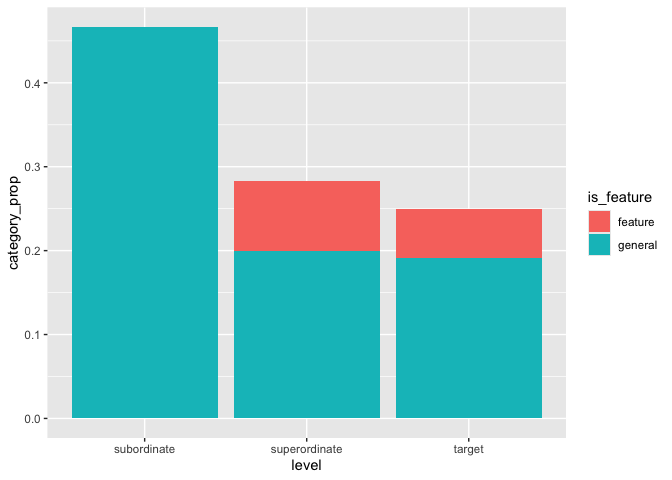
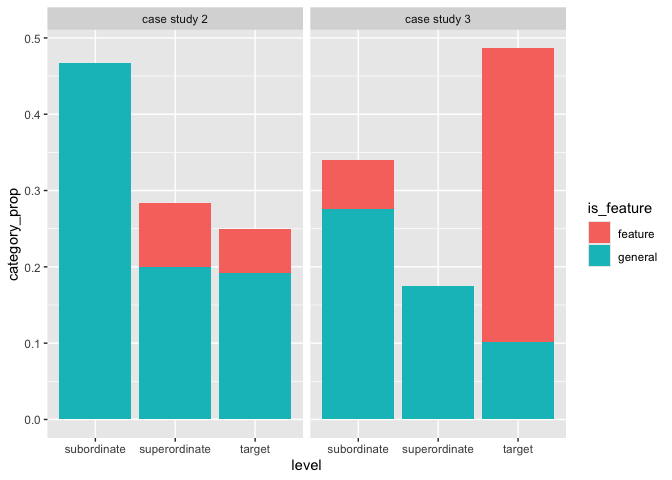
add results of goal sampling pilot for cs3

diff --git a/analysis/pilots.md b/analysis/pilots.md
@@ -117,7 +117,17 @@ goals_cs2_p2_long <- goals_cs2_p2 %>%
   pivot_longer(cols = c(answer1, answer2, answer3), names_to = "answer_num", values_to = "sampled_goals")
 #goals_cs2_p2_long %>% write_csv("../data/goal_sampling/results_10_cs2_pilot2_long.csv")
 
-goals_cs2_p2_long <- read_csv("../data/goal_sampling/results_10_cs2_pilot2_long.csv")
+goals_cs3 <- read_csv("../data/goal_sampling/results_11_cs3_pilot1.csv") %>%
+  filter(correct_response == "main")
+goals_cs3_long <- goals_cs3 %>%
+  pivot_longer(cols = c(answer1, answer2, answer3), names_to = "answer_num", values_to = "sampled_goals")
+#goals_cs3_long %>% write_csv("../data/goal_sampling/results_11_cs3_pilot1_long.csv")
+
+goals_cs2_p2_long <- read_csv("../data/goal_sampling/results_10_cs2_pilot2_long.csv") %>%
+  mutate(experiment = "case study 2")
+goals_cs3_long <- read_csv("../data/goal_sampling/results_11_cs3_pilot1_long.csv") %>%
+   mutate(experiment = "case study 3") %>% filter(category != "other")
+goals_long <- rbind(goals_cs2_p2_long, goals_cs3_long)
 ```
 
 The goals were manually annotated into the same three categories as in
@@ -128,23 +138,42 @@ martial arts” rather than just saying “wants to do kickboxing”).
 Generally, compared to the pilot above, the variation in the contents
 was larger, the subordinate responses more often mentioned social goals
 (e.g., the question as an excuse to start a conversation with the
-cashier).
+cashier). In case study 3, there were a few particular aspects to be
+noted: the larger proportion of feature-target responses is partially
+driven by repetitions of features from the context (e.g., “wants to
+reach the window”). The distinction between feature- and non-feature
+subordinate / superordinate goals was a bit more difficult to draw
+(e.g., it was unclear whether goals like “to avoid cutting or slippery
+when holding the mirror” were referencing a feature in the same sense as
+the target feature of a blanket being soft).
 
 ``` r
-goals_cs2_p2_long_processed <- goals_cs2_p2_long %>%
+goals_long_processed <- goals_long %>%
   mutate(category_split = str_split(category, "-")) %>% 
   unnest_wider(category_split, names_sep = "wide") %>%
   rename(level = category_splitwide1, is_feature = category_splitwide2) %>%
   mutate(is_feature = ifelse(is.na(is_feature), "general", "feature"))
 
-goals_cs2_p2_long_processed %>%
-  group_by(level, is_feature) %>%
-  summarize(category_prop = n() / nrow(goals_cs2_p2_long_processed)) %>%
+goals_long_processed %>%
+  group_by(experiment) %>%
+  mutate(expt_count = n()) %>%
+  group_by(experiment, level, is_feature) %>%
+  summarize(category_prop = n() / expt_count) %>%
+  unique() %>%
   ggplot(., aes(x = level, y = category_prop, fill = is_feature)) +
-  geom_col()
+  geom_col() +
+  facet_wrap(experiment~.)
 ```
 
-    ## `summarise()` has grouped output by 'level'. You can override using the
-    ## `.groups` argument.
+    ## Warning: Returning more (or less) than 1 row per `summarise()` group was deprecated in
+    ## dplyr 1.1.0.
+    ## ℹ Please use `reframe()` instead.
+    ## ℹ When switching from `summarise()` to `reframe()`, remember that `reframe()`
+    ##   always returns an ungrouped data frame and adjust accordingly.
+    ## Call `lifecycle::last_lifecycle_warnings()` to see where this warning was
+    ## generated.
+
+    ## `summarise()` has grouped output by 'experiment', 'level', 'is_feature'. You
+    ## can override using the `.groups` argument.
 
 ![](pilots_files/figure-gfm/unnamed-chunk-7-1.png)<!-- -->
